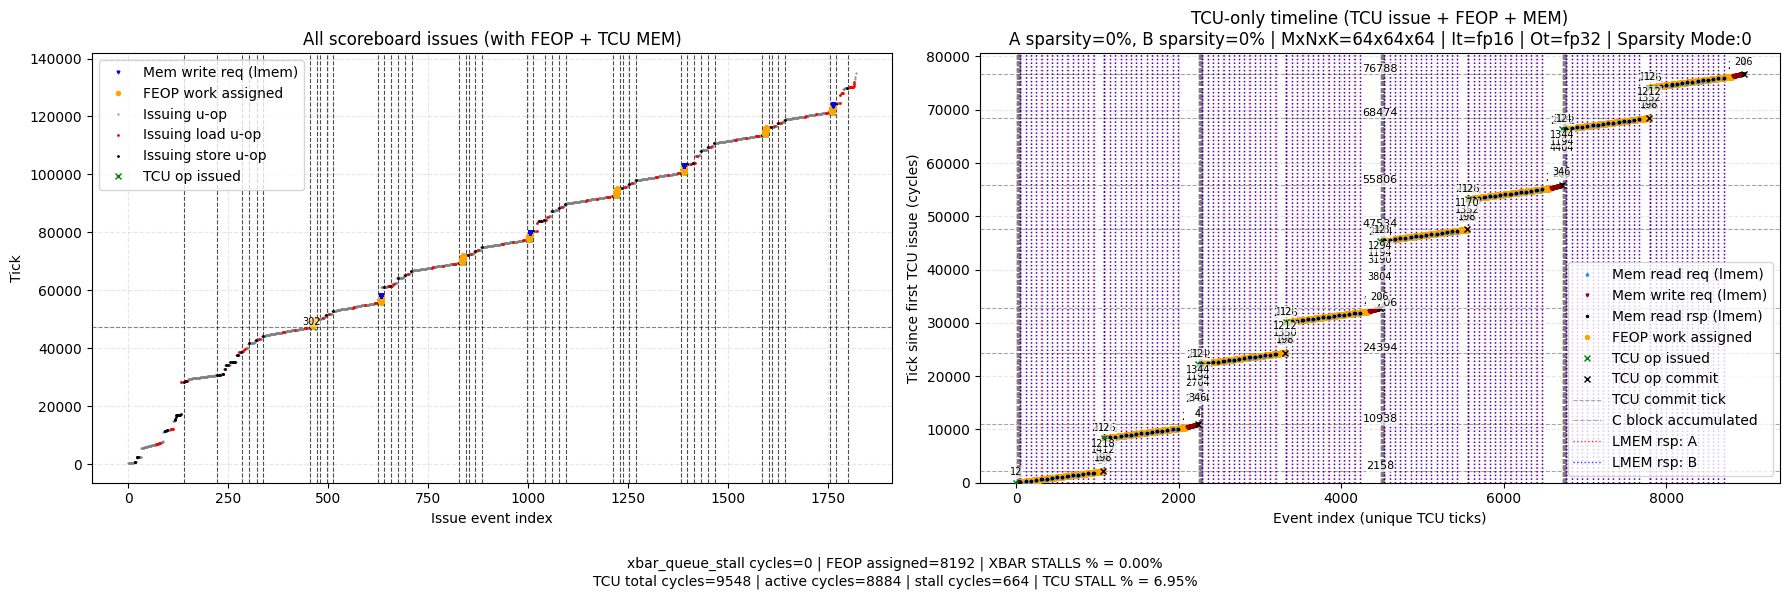
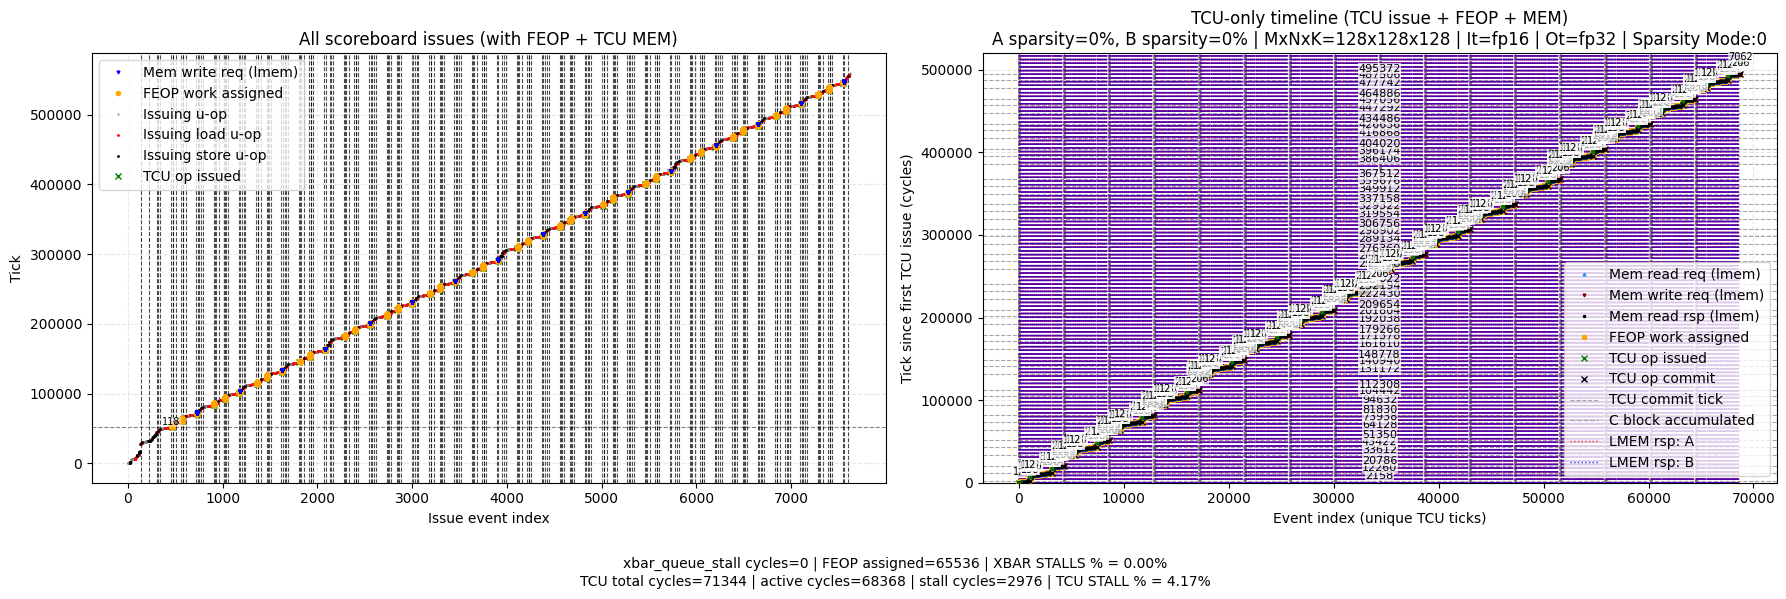
s0 working for 128x128x128

diff --git a/tests/regression/sgemm_tcu_op/kernel.cpp b/tests/regression/sgemm_tcu_op/kernel.cpp
@@ -262,17 +262,24 @@ extern "C" void kernel_main(kernel_arg_t *__UNIFORM__ arg) {
                   : (chunk_A + dense_half1_a_regs);
           chunk_A_elems = reinterpret_cast<ctx::input_t*>(chunk_A);
           chunk_B_elems = reinterpret_cast<ctx::input_t*>(chunk_B);
+          auto chunk_A_elems_hi = chunk_A_elems + (tile_M * tile_K);
+          auto chunk_B_elems_hi = chunk_B_elems + (tile_K * tile_N);
+          const bool has_second_k_tile = (curr_k > tile_K);
 
           const uint32_t flags_chunk = (((k_offset == 0) ? 1u : 0u) << 1) | (((k_offset + curr_k) == K) ? 1u : 0u);
 
           if (active_warp && lane0) {mma_D[0] = MARKER;}
           if (active_warp && is_dxa_quad) {
             vx_dxa_issue_2d_wg(kDescA, ab_tile_bar.id(), chunk_A, 0, tile_row_idx * tiles_k + k_tile_idx);
-          }
-          ab_tile_bar.arrive_and_wait();
-          if (active_warp && lane0) {mma_D[0] = MARKER;}
-          if (active_warp && is_dxa_quad) {
+            if (has_second_k_tile) {
+              vx_dxa_issue_2d_wg(kDescA, ab_tile_bar.id(), chunk_A_elems_hi, 0,
+                                 tile_row_idx * tiles_k + k_tile_idx + 1);
+            }
             vx_dxa_issue_2d_wg(kDescB, ab_tile_bar.id(), chunk_B, 0, tile_col_idx * tiles_k + k_tile_idx);
+            if (has_second_k_tile) {
+              vx_dxa_issue_2d_wg(kDescB, ab_tile_bar.id(), chunk_B_elems_hi, 0,
+                                 tile_col_idx * tiles_k + k_tile_idx + 1);
+            }
           }
           ab_tile_bar.arrive_and_wait();
           if (active_warp && lane0) {mma_D[0] = MARKER;}
